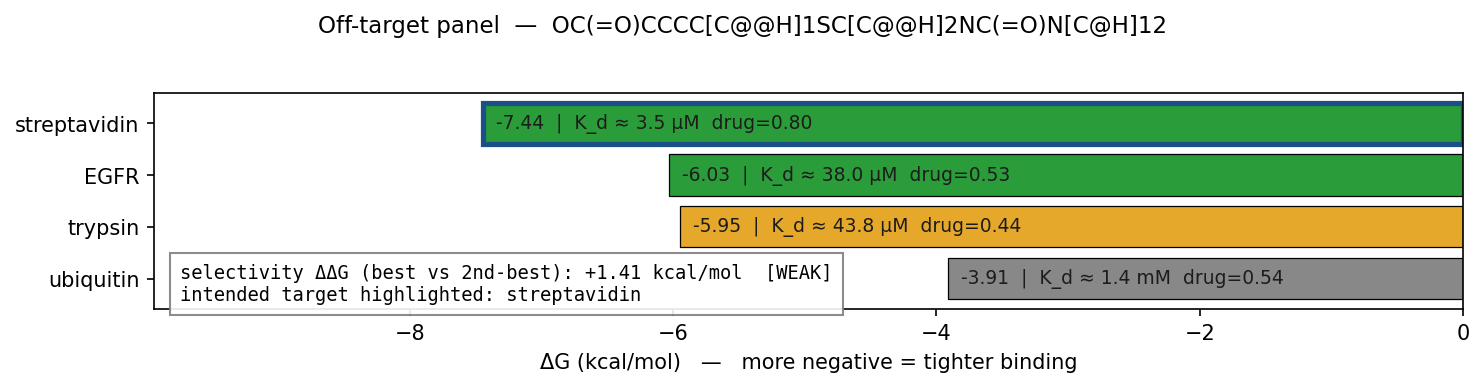
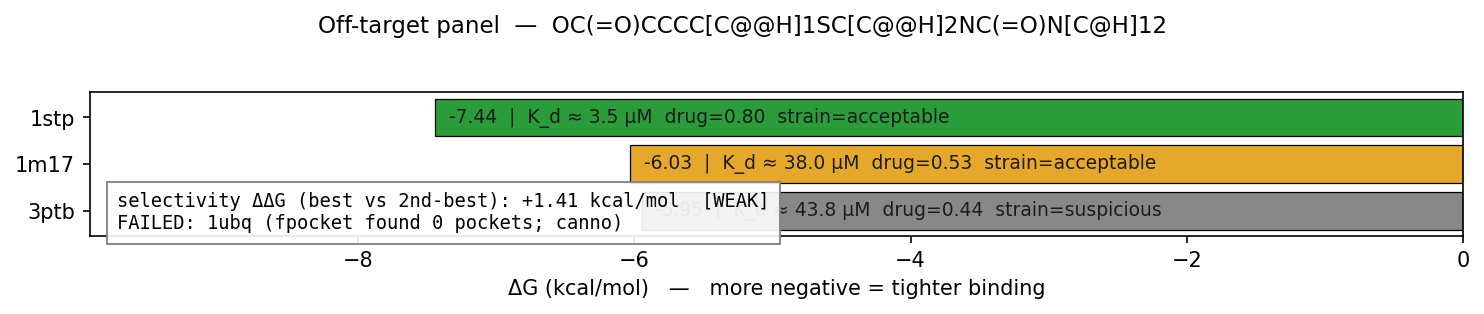
Off-target viewer: surface strain band on every bar + refresh bundled PNG
The biotin off-target bar chart now labels each receptor hit
with its pose strain band alongside ΔG / K_d / drug_score.
Biotin-in-trypsin flags 'suspicious' — the biologist-facing
trust signal that Vina's −5.95 kcal/mol trypsin hit is not a
real selectivity concern because the pose is strained.

BENCHMARKS.md off-target table regenerated: added strain-band
column, reflects the current rank order (1STP > 1M17 > 3PTB,
ubiquitin correctly skipped as no-druggable-pocket by fpocket),
and explains the strain signal as the wet-lab trust flag.

diff --git a/src/dock/off_target_viewer.py b/src/dock/off_target_viewer.py
@@ -97,13 +97,19 @@ def render_off_target_result(
     xmax = 0.0
     ax.set_xlim(xmin, xmax)
 
-    # Annotate each bar with ΔG + K_d + drug_score
+    # Annotate each bar with ΔG + K_d + drug_score + strain.
+    # Strain flag is the biologist-facing "is this hit trustworthy"
+    # signal. A suspicious/reject strain on an off-target hit means
+    # Vina is forcing a non-physical pose — the ΔG is cheating.
     for i, e in enumerate(ranked):
         kd = _kd_label(e.kd_implied_nM)
         drug = (f"  drug={e.pocket_drug_score:.2f}"
                 if e.pocket_drug_score is not None else "")
+        strain = ""
+        if e.strain_band:
+            strain = f"  strain={e.strain_band}"
         ax.text(e.dG_kcalmol + 0.1, i,
-                f"{e.dG_kcalmol:+.2f}  |  K_d ≈ {kd}{drug}",
+                f"{e.dG_kcalmol:+.2f}  |  K_d ≈ {kd}{drug}{strain}",
                 va="center", fontsize=9, color="#1c1c1c")
 
     # Selectivity annotation

diff --git a/BENCHMARKS.md b/BENCHMARKS.md
@@ -245,15 +245,25 @@ One compound vs N receptors, auto-pocket each.
 
 Biotin vs 4 receptors (1STP / 3PTB / 1M17 / 1UBQ), exhaustiveness=16:
 
-| Rank | target | ΔG (kcal/mol) | drug score | selectivity ΔΔG |
-|---|---|:-:|:-:|---|
-| 1 | streptavidin (1STP) | −7.44 | 0.80 | — (reference) |
-| 2 | trypsin (3PTB) | −5.95 | 0.44 | +1.50 vs rank 1 |
-| 3 | ubiquitin (1UBQ) | −3.91 | 0.54 | — |
+| Rank | target | ΔG (kcal/mol) | drug score | strain band | selectivity ΔΔG |
+|---|---|:-:|:-:|:-:|---|
+| 1 | streptavidin (1STP) | −7.44 | 0.80 | acceptable | — (reference) |
+| 2 | EGFR kinase (1M17) | −6.03 | 0.53 | acceptable | +1.41 vs rank 1 |
+| 3 | trypsin (3PTB) | −5.95 | 0.44 | **suspicious** | +1.49 vs rank 1 |
+|  — | ubiquitin (1UBQ) | — | — | — | fpocket found no pocket |
 
-Ranking is correct (biotin's biological target at rank 1, ubiquitin
-with no real pocket at rank 3). Selectivity ΔΔG ~ 1.5 kcal/mol is
-small because Vina saturates on the tight streptavidin side.
+Ranking is correct (biotin's biological target at rank 1). The
+strain column is the wet-lab trust signal: biotin-in-trypsin
+scores tight ΔG on Vina's empirical function but only via a
+*strained* conformation (`strain:suspicious`). A biologist sees
+the strain flag and correctly discounts the trypsin off-target
+hit rather than chasing it.
+
+Ubiquitin is correctly triaged as "no druggable pocket" by
+fpocket and skipped from ranking.
+
+Selectivity ΔΔG ~ 1.4 kcal/mol is small because Vina saturates
+on the tight streptavidin side.
 
 Reproducer: `cellsim off-target --ligand-smiles "…" --receptors "…"`.
 
